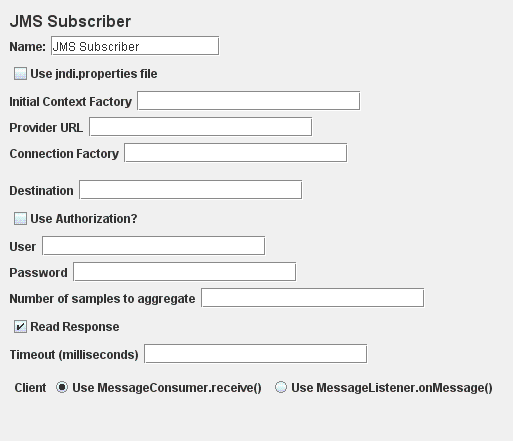
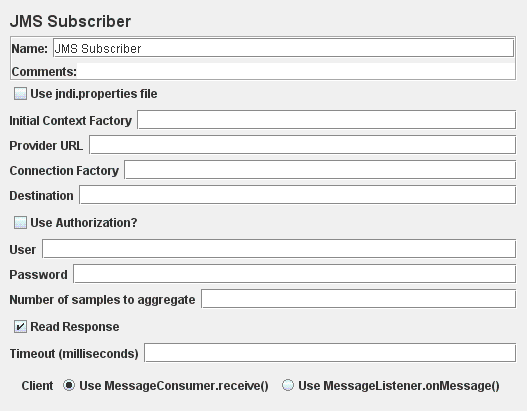
Tidy up the JMS GUIs
git-svn-id: https://svn.apache.org/repos/asf/jakarta/jmeter/trunk@957326 13f79535-47bb-0310-9956-ffa450edef68

Former-commit-id: 4fc51b1c47ab34569eab927fa024485afc97bf0f

Changed region(s): [[0.0, 0.0292, 0.9981, 0.8175], [0.0, 0.8175, 0.9669, 0.9635]]

diff --git a/src/protocol/jms/org/apache/jmeter/protocol/jms/control/gui/JMSPublisherGui.java b/src/protocol/jms/org/apache/jmeter/protocol/jms/control/gui/JMSPublisherGui.java
@@ -18,36 +18,31 @@
 
 package org.apache.jmeter.protocol.jms.control.gui;
 
+import java.awt.BorderLayout;
 import java.awt.Dimension;
-import java.awt.Font;
-import java.awt.event.ActionEvent;
 
 import javax.swing.JCheckBox;
 import javax.swing.JOptionPane;
-import javax.swing.JLabel;
 import javax.swing.JPanel;
-import javax.swing.border.Border;
-import javax.swing.border.EmptyBorder;
 import javax.swing.event.ChangeEvent;
 import javax.swing.event.ChangeListener;
 
+import org.apache.jmeter.gui.util.FilePanel;
+import org.apache.jmeter.gui.util.JLabeledRadioI18N;
+import org.apache.jmeter.gui.util.VerticalPanel;
+import org.apache.jmeter.protocol.jms.sampler.PublisherSampler;
 import org.apache.jmeter.samplers.gui.AbstractSamplerGui;
 import org.apache.jmeter.testelement.TestElement;
 import org.apache.jmeter.util.JMeterUtils;
-import org.apache.jmeter.gui.util.FilePanel;
-import org.apache.jmeter.gui.util.JLabeledRadioI18N;
-import org.apache.jorphan.gui.JLabeledTextField;
 import org.apache.jorphan.gui.JLabeledTextArea;
-import org.apache.jorphan.gui.layout.VerticalLayout;
-
-import org.apache.jmeter.protocol.jms.sampler.PublisherSampler;
+import org.apache.jorphan.gui.JLabeledTextField;
 
 /**
  * This is the GUI for JMS Publisher <br>
  * Created on: October 13, 2003
  *
  */
-public class JMSPublisherGui extends AbstractSamplerGui implements java.awt.event.ActionListener, ChangeListener {
+public class JMSPublisherGui extends AbstractSamplerGui implements ChangeListener {
 
     private static final long serialVersionUID = 240L;
 
@@ -101,10 +96,6 @@ public class JMSPublisherGui extends AbstractSamplerGui implements java.awt.even
     private final JLabeledTextArea textMessage = new JLabeledTextArea(JMeterUtils.getResString("jms_text_message"));
 
     private final JLabeledRadioI18N msgChoice = new JLabeledRadioI18N("jms_message_type", MSGTYPES_ITEMS, TEXT_MSG_RSC); //$NON-NLS-1$
-
-    private final JPanel lookup = new JPanel();
-
-    private final JPanel messagePanel = new JPanel();
 
     public JMSPublisherGui() {
         init();
@@ -169,59 +160,35 @@ public class JMSPublisherGui extends AbstractSamplerGui implements java.awt.even
      * SOAPSampler, since it is common.
      */
     private void init() {
-        this.setLayout(new VerticalLayout(5, VerticalLayout.LEFT, VerticalLayout.TOP));
+        setLayout(new BorderLayout());
+        setBorder(makeBorder());
+        add(makeTitlePanel(), BorderLayout.NORTH);
 
-        // MAIN PANEL
-        JPanel mainPanel = new JPanel();
-        Border margin = new EmptyBorder(10, 10, 5, 10);
-        mainPanel.setBorder(margin);
-        mainPanel.setLayout(new VerticalLayout(5, VerticalLayout.LEFT));
+        JPanel mainPanel = new VerticalPanel();
+        add(mainPanel, BorderLayout.CENTER);
+        
+        mainPanel.add(useProperties);
+        mainPanel.add(jndiICF);
+        mainPanel.add(urlField);
+        mainPanel.add(jndiConnFac);
+        mainPanel.add(jmsDestination);
+        mainPanel.add(useAuth);
+        mainPanel.add(jmsUser);
+        mainPanel.add(jmsPwd);
+        mainPanel.add(iterations);
 
-        // TITLE
-        JLabel panelTitleLabel = new JLabel(getStaticLabel());
-        Font curFont = panelTitleLabel.getFont();
-        int curFontSize = curFont.getSize();
-        curFontSize += 4;
-        panelTitleLabel.setFont(new Font(curFont.getFontName(), curFont.getStyle(), curFontSize));
-        mainPanel.add(panelTitleLabel);
-        // NAME
-        mainPanel.add(getNamePanel());
-
-        // Button for browsing webservice wsdl
-
-        lookup.setLayout(new VerticalLayout(6, VerticalLayout.LEFT));
-        mainPanel.add(lookup);
-        lookup.add(useProperties);
-        useProperties.addChangeListener(this);
-        lookup.add(jndiICF);
-        lookup.add(urlField);
-        lookup.add(jndiConnFac);
-
-        configChoice.addChangeListener(this);
-        msgChoice.addChangeListener(this);
-
-        JPanel commonParams = new JPanel();
-        commonParams.setLayout(new VerticalLayout(6, VerticalLayout.LEFT));
-        mainPanel.add(commonParams);
-        commonParams.add(jmsDestination);
-        commonParams.add(useAuth);
-        commonParams.add(jmsUser);
-        commonParams.add(jmsPwd);
-        commonParams.add(iterations);
-
-        messagePanel.setLayout(new VerticalLayout(3, VerticalLayout.LEFT));
-        messagePanel.add(configChoice);
-        messagePanel.add(msgChoice);
-        messagePanel.add(messageFile);
-        messagePanel.add(randomFile);
-        messagePanel.add(textMessage);
-        mainPanel.add(messagePanel);
-
-        Dimension pref = new Dimension(400, 200);
+        mainPanel.add(configChoice);
+        mainPanel.add(msgChoice);
+        mainPanel.add(messageFile);
+        mainPanel.add(randomFile);
+        mainPanel.add(textMessage);
+        Dimension pref = new Dimension(400, 150);
         textMessage.setPreferredSize(pref);
 
-        // we have to add the gui to the change listener
-        this.add(mainPanel);
+        useProperties.addChangeListener(this);
+        useAuth.addChangeListener(this);
+        configChoice.addChangeListener(this);
+        msgChoice.addChangeListener(this);
     }
 
     @Override
@@ -269,31 +236,20 @@ public class JMSPublisherGui extends AbstractSamplerGui implements java.awt.even
     }
 
     /**
-     * method from ActionListener
-     *
-     * @param event
-     *            that occurred
-     */
-    public void actionPerformed(ActionEvent event) {
-    }
-
-    /**
      * When a widget state changes, it will notify this class so we can
      * enable/disable the correct items.
      */
     public void stateChanged(ChangeEvent event) {
-        if (event.getSource() == this.configChoice) {
-            updateConfig(this.configChoice.getText());
-        } else if (event.getSource() == this.msgChoice) {
-            updateMessageType(this.msgChoice.getText());
+        if (event.getSource() == configChoice) {
+            updateConfig(configChoice.getText());
+        } else if (event.getSource() == msgChoice) {
+            updateMessageType(msgChoice.getText());
         } else if (event.getSource() == useProperties) {
-            if (useProperties.isSelected()) {
-                this.jndiICF.setEnabled(false);
-                this.urlField.setEnabled(false);
-            } else {
-                this.jndiICF.setEnabled(true);
-                this.urlField.setEnabled(true);
-            }
+            jndiICF.setEnabled(!useProperties.isSelected());
+            urlField.setEnabled(!useProperties.isSelected());
+        } else if (event.getSource() == useAuth) {
+            jmsUser.setEnabled(!useAuth.isSelected());
+            jmsPwd.setEnabled(!useAuth.isSelected());
         }
     }
 

diff --git a/src/protocol/jms/org/apache/jmeter/protocol/jms/control/gui/JMSSubscriberGui.java b/src/protocol/jms/org/apache/jmeter/protocol/jms/control/gui/JMSSubscriberGui.java
@@ -18,31 +18,26 @@
 
 package org.apache.jmeter.protocol.jms.control.gui;
 
-import java.awt.Font;
-import java.awt.event.ActionEvent;
+import java.awt.BorderLayout;
 
 import javax.swing.JCheckBox;
-import javax.swing.JLabel;
 import javax.swing.JPanel;
-import javax.swing.border.Border;
-import javax.swing.border.EmptyBorder;
 import javax.swing.event.ChangeEvent;
 import javax.swing.event.ChangeListener;
 
+import org.apache.jmeter.gui.util.JLabeledRadioI18N;
+import org.apache.jmeter.gui.util.VerticalPanel;
+import org.apache.jmeter.protocol.jms.sampler.SubscriberSampler;
 import org.apache.jmeter.samplers.gui.AbstractSamplerGui;
 import org.apache.jmeter.testelement.TestElement;
 import org.apache.jmeter.util.JMeterUtils;
 import org.apache.jorphan.gui.JLabeledTextField;
-import org.apache.jorphan.gui.layout.VerticalLayout;
-
-import org.apache.jmeter.gui.util.JLabeledRadioI18N;
-import org.apache.jmeter.protocol.jms.sampler.SubscriberSampler;
 
 /**
  * This is the GUI for JMS Subscriber <br>
  *
  */
-public class JMSSubscriberGui extends AbstractSamplerGui implements java.awt.event.ActionListener, ChangeListener {
+public class JMSSubscriberGui extends AbstractSamplerGui implements ChangeListener {
 
     private static final long serialVersionUID = 240L;
 
@@ -76,7 +71,7 @@ public class JMSSubscriberGui extends AbstractSamplerGui implements java.awt.eve
     private final JCheckBox readResponse =
         new JCheckBox(JMeterUtils.getResString("jms_read_response"), true); // $NON-NLS-1$
 
-    private JLabeledTextField timeout = 
+    private final JLabeledTextField timeout = 
         new JLabeledTextField(JMeterUtils.getResString("jms_timeout")); //$NON-NLS-1$
 
     //++ Do not change these strings; they are used in JMX files to record the button settings
@@ -90,8 +85,6 @@ public class JMSSubscriberGui extends AbstractSamplerGui implements java.awt.eve
 
     private final JLabeledRadioI18N clientChoice =
         new JLabeledRadioI18N("jms_client_type", CLIENT_ITEMS, RECEIVE_RSC); // $NON-NLS-1$
-
-    private final JPanel lookup = new JPanel();
 
     public JMSSubscriberGui() {
         init();
@@ -137,48 +130,29 @@ public class JMSSubscriberGui extends AbstractSamplerGui implements java.awt.eve
      * SOAPSampler, since it is common.
      */
     private void init() {
-        this.setLayout(new VerticalLayout(5, VerticalLayout.LEFT, VerticalLayout.TOP));
+        setLayout(new BorderLayout());
+        setBorder(makeBorder());
+        add(makeTitlePanel(), BorderLayout.NORTH);
 
-        // MAIN PANEL
-        JPanel mainPanel = new JPanel();
-        Border margin = new EmptyBorder(10, 10, 5, 10);
-        mainPanel.setBorder(margin);
-        mainPanel.setLayout(new VerticalLayout(5, VerticalLayout.LEFT));
+        JPanel mainPanel = new VerticalPanel();
+        add(mainPanel, BorderLayout.CENTER);
+        
+        mainPanel.add(useProperties);
+        mainPanel.add(jndiICF);
+        mainPanel.add(urlField);
+        mainPanel.add(jndiConnFac);
+        mainPanel.add(jmsDestination);
+        mainPanel.add(useAuth);
+        mainPanel.add(jmsUser);
+        mainPanel.add(jmsPwd);
+        mainPanel.add(iterations);
 
-        // TITLE
-        JLabel panelTitleLabel = new JLabel(getStaticLabel());
-        Font curFont = panelTitleLabel.getFont();
-        int curFontSize = curFont.getSize();
-        curFontSize += 4;
-        panelTitleLabel.setFont(new Font(curFont.getFontName(), curFont.getStyle(), curFontSize));
-        mainPanel.add(panelTitleLabel);
-        // NAME
-        mainPanel.add(getNamePanel());
+        mainPanel.add(readResponse);
+        mainPanel.add(timeout);
+        mainPanel.add(clientChoice);
 
-        // Button for browsing webservice wsdl
-
-        lookup.setLayout(new VerticalLayout(6, VerticalLayout.LEFT));
-        mainPanel.add(lookup);
-        lookup.add(useProperties);
         useProperties.addChangeListener(this);
-        lookup.add(jndiICF);
-        lookup.add(urlField);
-        lookup.add(jndiConnFac);
-
-        JPanel commonParams = new JPanel();
-        commonParams.setLayout(new VerticalLayout(6, VerticalLayout.LEFT));
-        mainPanel.add(commonParams);
-        commonParams.add(jmsDestination);
-        commonParams.add(useAuth);
-        commonParams.add(jmsUser);
-        commonParams.add(jmsPwd);
-        commonParams.add(iterations);
-        commonParams.add(readResponse);
-        commonParams.add(timeout);
-        commonParams.add(clientChoice);
-
-        // we have to add the gui to the change listener
-        this.add(mainPanel);
+        useAuth.addChangeListener(this);
     }
 
     /**
@@ -220,29 +194,16 @@ public class JMSSubscriberGui extends AbstractSamplerGui implements java.awt.eve
     }
 
     /**
-     * method from ActionListener
-     *
-     * @param event
-     *            that occurred
-     */
-    public void actionPerformed(ActionEvent event) {
-        if (event.getSource() == useProperties) {
-        }
-    }
-
-    /**
      * When the state of a widget changes, it will notify the gui. the method
      * then enables or disables certain parameters.
      */
     public void stateChanged(ChangeEvent event) {
         if (event.getSource() == useProperties) {
-            if (useProperties.isSelected()) {
-                this.jndiICF.setEnabled(false);
-                this.urlField.setEnabled(false);
-            } else {
-                this.jndiICF.setEnabled(true);
-                this.urlField.setEnabled(true);
-            }
+            jndiICF.setEnabled(!useProperties.isSelected());
+            urlField.setEnabled(!useProperties.isSelected());
+        } else if (event.getSource() == useAuth) {
+            jmsUser.setEnabled(!useAuth.isSelected());
+            jmsPwd.setEnabled(!useAuth.isSelected());
         }
     }
 }

diff --git a/src/protocol/jms/org/apache/jmeter/protocol/jms/control/gui/JMSSamplerGui.java b/src/protocol/jms/org/apache/jmeter/protocol/jms/control/gui/JMSSamplerGui.java
@@ -186,8 +186,6 @@ public class JMSSamplerGui extends AbstractSamplerGui {
         setBorder(makeBorder());
         add(makeTitlePanel(), BorderLayout.NORTH);
 
-        Box mainPanel = Box.createVerticalBox();
-
         JPanel jmsQueueingPanel = new JPanel(new BorderLayout());
         jmsQueueingPanel.setBorder(BorderFactory.createTitledBorder(BorderFactory.createEtchedBorder(),
                 JMeterUtils.getResString("jms_queueing"))); //$NON-NLS-1$
@@ -203,8 +201,6 @@ public class JMSSamplerGui extends AbstractSamplerGui {
         JPanel receiveQueuePanel = new JPanel(new BorderLayout(5, 0));
         receiveQueuePanel.add(receiveQueue);
         jmsQueueingPanel.add(receiveQueuePanel, BorderLayout.SOUTH);
-
-        JPanel jndiPanel = createJNDIPanel();
 
         JPanel messagePanel = new JPanel(new BorderLayout());
         messagePanel.setBorder(BorderFactory.createTitledBorder(BorderFactory.createEtchedBorder(),
@@ -243,11 +239,13 @@ public class JMSSamplerGui extends AbstractSamplerGui {
         jmsPropertiesPanel = new ArgumentsPanel(JMeterUtils.getResString("jms_props")); //$NON-NLS-1$
         messagePanel.add(jmsPropertiesPanel, BorderLayout.SOUTH);
 
+        Box mainPanel = Box.createVerticalBox();
+        add(mainPanel, BorderLayout.CENTER);
         mainPanel.add(jmsQueueingPanel, BorderLayout.NORTH);
         mainPanel.add(messagePanel, BorderLayout.CENTER);
+        JPanel jndiPanel = createJNDIPanel();
         mainPanel.add(jndiPanel, BorderLayout.SOUTH);
 
-        add(mainPanel, BorderLayout.CENTER);
     }
 
     /**
